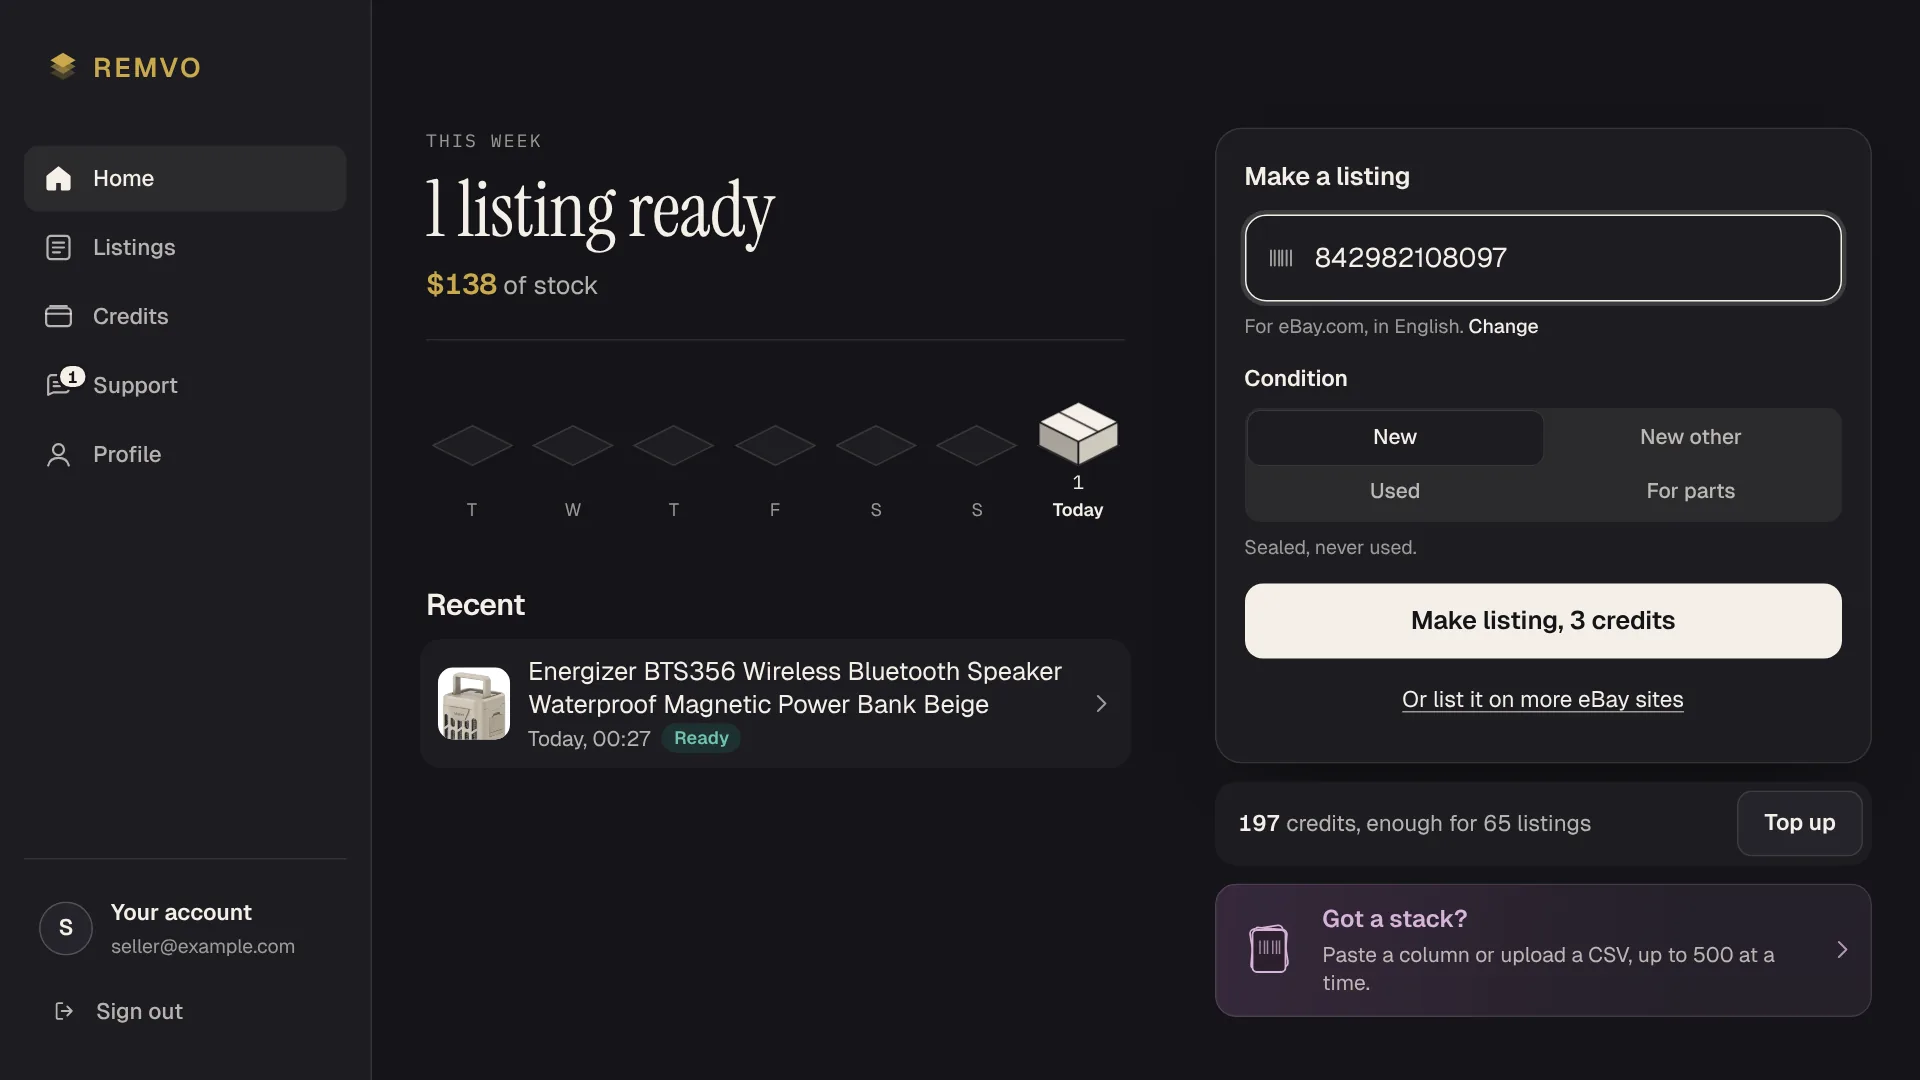
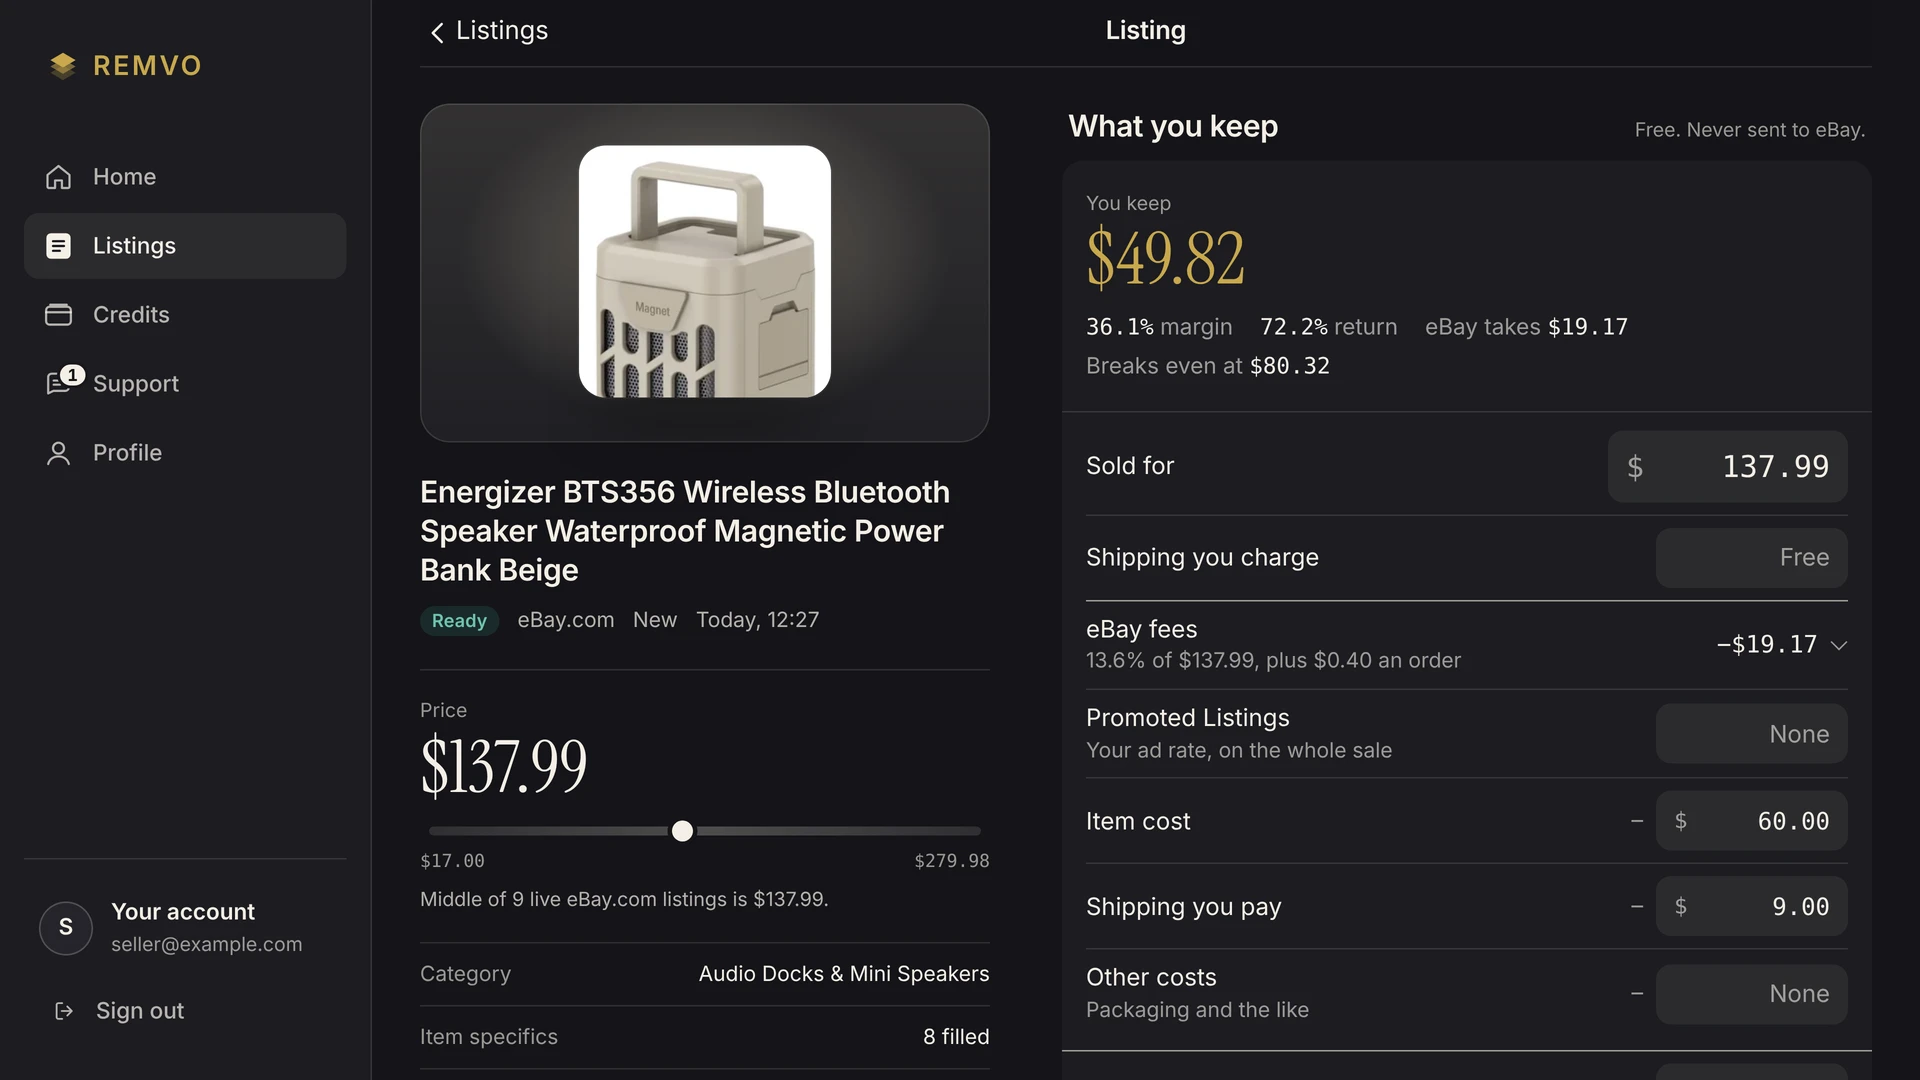
video1: Your first listing on its help page, link-first wording

diff --git a/src/pages/guides/GuidePage.jsx b/src/pages/guides/GuidePage.jsx
@@ -30,9 +30,9 @@ import G from '@styles/pages/marketing/guides.module.css';
 const BODY_ID = 'guide-body';
 
 const ACTIONS = {
-  bulk: { heading: 'Skip the slow part', text: 'Paste or scan your barcodes, or upload the spreadsheet. Remvo fills in every row, up to 500 at a time. Your first listing is free.', label: 'List in bulk', href: APP_LINKS.BULK },
-  listing: { heading: 'Let Remvo write it', text: 'Scan or paste a barcode and get the title, category, item specifics, parcel and price in about 20 seconds. Your first listing is free.', label: 'Make your first listing', href: APP_LINKS.SIGN_UP },
-  scan: { heading: 'Scan a box, get the listing', text: 'Point your phone at the barcode. Remvo writes the listing in about 20 seconds. Your first listing is free.', label: 'Make your first listing', href: APP_LINKS.SIGN_UP },
+  bulk: { heading: 'Skip the slow part', text: 'Paste your product links or barcodes, or upload the spreadsheet. Remvo fills in every row, up to 500 at a time. Your first listing is free.', label: 'List in bulk', href: APP_LINKS.BULK },
+  listing: { heading: 'Stop typing it by hand', text: 'Paste a product link or a barcode and get the title, category, item specifics, parcel and price in about 20 seconds. Your first listing is free.', label: 'Make your first listing', href: APP_LINKS.SIGN_UP },
+  scan: { heading: 'From the box to the listing', text: 'Point your phone at the barcode, and every eBay field is done in about 20 seconds. Your first listing is free.', label: 'Make your first listing', href: APP_LINKS.SIGN_UP },
   calculator: { heading: 'Work it out for your sale', text: 'Type the price and your costs to see what eBay.com takes and what you keep. Free, no sign-up.', label: 'Open the fee calculator', href: ROUTES.FEES_US },
   'calculator-uk': { heading: 'Work it out for your sale', text: 'Private or business, with or without VAT: see what eBay.co.uk takes and what you keep. Free, no sign-up.', label: 'Open the UK fee calculator', href: ROUTES.FEES_UK },
   chat: { heading: 'Ask a person', text: 'Tell us what you sell and where you are stuck. A person answers, usually the same day.', label: null },

diff --git a/src/pages/tools/FeeCalculatorPage.jsx b/src/pages/tools/FeeCalculatorPage.jsx
@@ -286,7 +286,7 @@ export function FeeCalculatorPage({ site }) {
           <div>
             <h2 id="fees-close" className={info.closeHeading}>Make the listing too.</h2>
             <p className={T.closeText}>
-              Remvo writes the whole eBay listing from a barcode or a product link, with this sum on every one. Your first listing is on us.
+              Remvo fills in the whole eBay listing from a product link or a barcode, with this sum on every one. Your first listing is on us.
             </p>
           </div>
           <Button href={APP_LINKS.SIGN_UP} variant="ivory" size="large">Make your first listing</Button>

diff --git a/src/pages/how-it-works/HowItWorksPage.jsx b/src/pages/how-it-works/HowItWorksPage.jsx
@@ -41,7 +41,7 @@ function faq(currency) {
     },
     {
       q: 'Does it add photos?',
-      a: 'No. You add your own photos in eBay, as you do now. Remvo writes everything else.',
+      a: 'No. You add your own photos in eBay, as you do now. Remvo fills in everything else.',
     },
     {
       q: 'Can it publish to eBay for me?',

diff --git a/src/content/help/make-a-listing.md b/src/content/help/make-a-listing.md
@@ -1,7 +1,7 @@
 ---
-title: Make a listing from a barcode or link
-description: Type or paste a barcode or an Amazon product link into Remvo, pick the condition and get the full eBay listing in about 20 seconds, for 3 credits.
-short: On Home, type or paste the barcode (the numbers under the stripes) or an Amazon product link into Make a listing, choose the condition, then Make listing, 3 credits. It is ready in about 20 seconds.
+title: Make a listing from a product link or barcode
+description: Paste an Amazon product link or a barcode into Remvo, pick the condition and get every eBay field done in about 20 seconds, for 3 credits.
+short: On Home, paste an Amazon product link (or type the barcode, the numbers under the stripes) into Make a listing, choose the condition, then Make listing, 3 credits. It is ready in about 20 seconds.
 section: listing
 order: 1
 checked: 2026-10-19
@@ -10,13 +10,16 @@ related:
   - scan-a-barcode
   - copy-a-listing-into-ebay
 guide: how-to-list-on-ebay-from-a-barcode
+video: CofjDstjPyo
+duration: 1:03
+uploaded: 2026-10-19
 ---
 
-## 1. Enter the barcode or link
+## 1. Paste the product link
 
-On **Home**, type the barcode into **Make a listing**: the 12 or 13 numbers under the stripes on the box. An Amazon product link works too.
+On **Home**, paste the product's Amazon link into **Make a listing**. Copy it from the address bar on the product page; it has `/dp/` in it.
 
-On a phone, you can tap the camera button at the end of the box to [scan the barcode](/help/scan-a-barcode) instead.
+A barcode works too: type the 12 or 13 numbers under the stripes on the box. On a phone, you can tap the camera button at the end of the box to [scan the barcode](/help/scan-a-barcode) instead.
 
 ## 2. Choose the condition
 
@@ -31,7 +34,7 @@ Under **Condition**, pick one:
 
 ## 3. Make it
 
-Choose **Make listing, 3 credits**. If one barcode matches more than one product, Remvo asks **Which product?** first. Choose yours; nothing is spent until you do.
+Choose **Make listing, 3 credits**. Your first listing is free. If one barcode matches more than one product, Remvo asks **Which product?** first. Choose yours; nothing is spent until you do.
 
 You see each step as it happens: reading the product page, finding the category, filling in the item specifics, measuring the parcel, checking prices and writing the title.
 
@@ -43,6 +46,7 @@ You can leave the screen while it is being made. It carries on and appears in **
 
 ## If it does not work
 
+- A link is not accepted: use an Amazon product link (.com, .ca, .co.uk, .de, .fr, .it or .es) with `/dp/` followed by ten letters and numbers.
 - "That barcode does not check out": a digit is missing or extra. Barcodes are 8, 12, 13 or 14 digits.
 - If a listing does not finish, its 3 credits come straight back to your balance.
 - The hint under the box says which eBay site the listing is for. Choose **Change** to pick another.

diff --git a/src/content/help/change-your-settings.md b/src/content/help/change-your-settings.md
@@ -1,6 +1,6 @@
 ---
 title: Change your eBay site, currency and account
-description: Choose which eBay site and language Remvo writes for, the currency you pay in, private or business seller, your name, password, passkeys and emails.
+description: Choose which eBay site and language your listings are made for, the currency you pay in, private or business seller, your name, password, passkeys and emails.
 short: Open Profile. Under Selling, choose your eBay site (it sets the language and prices of new listings), your currency and whether you sell as private or business. Under Account, change your name, password, passkeys and emails.
 section: account
 order: 2
